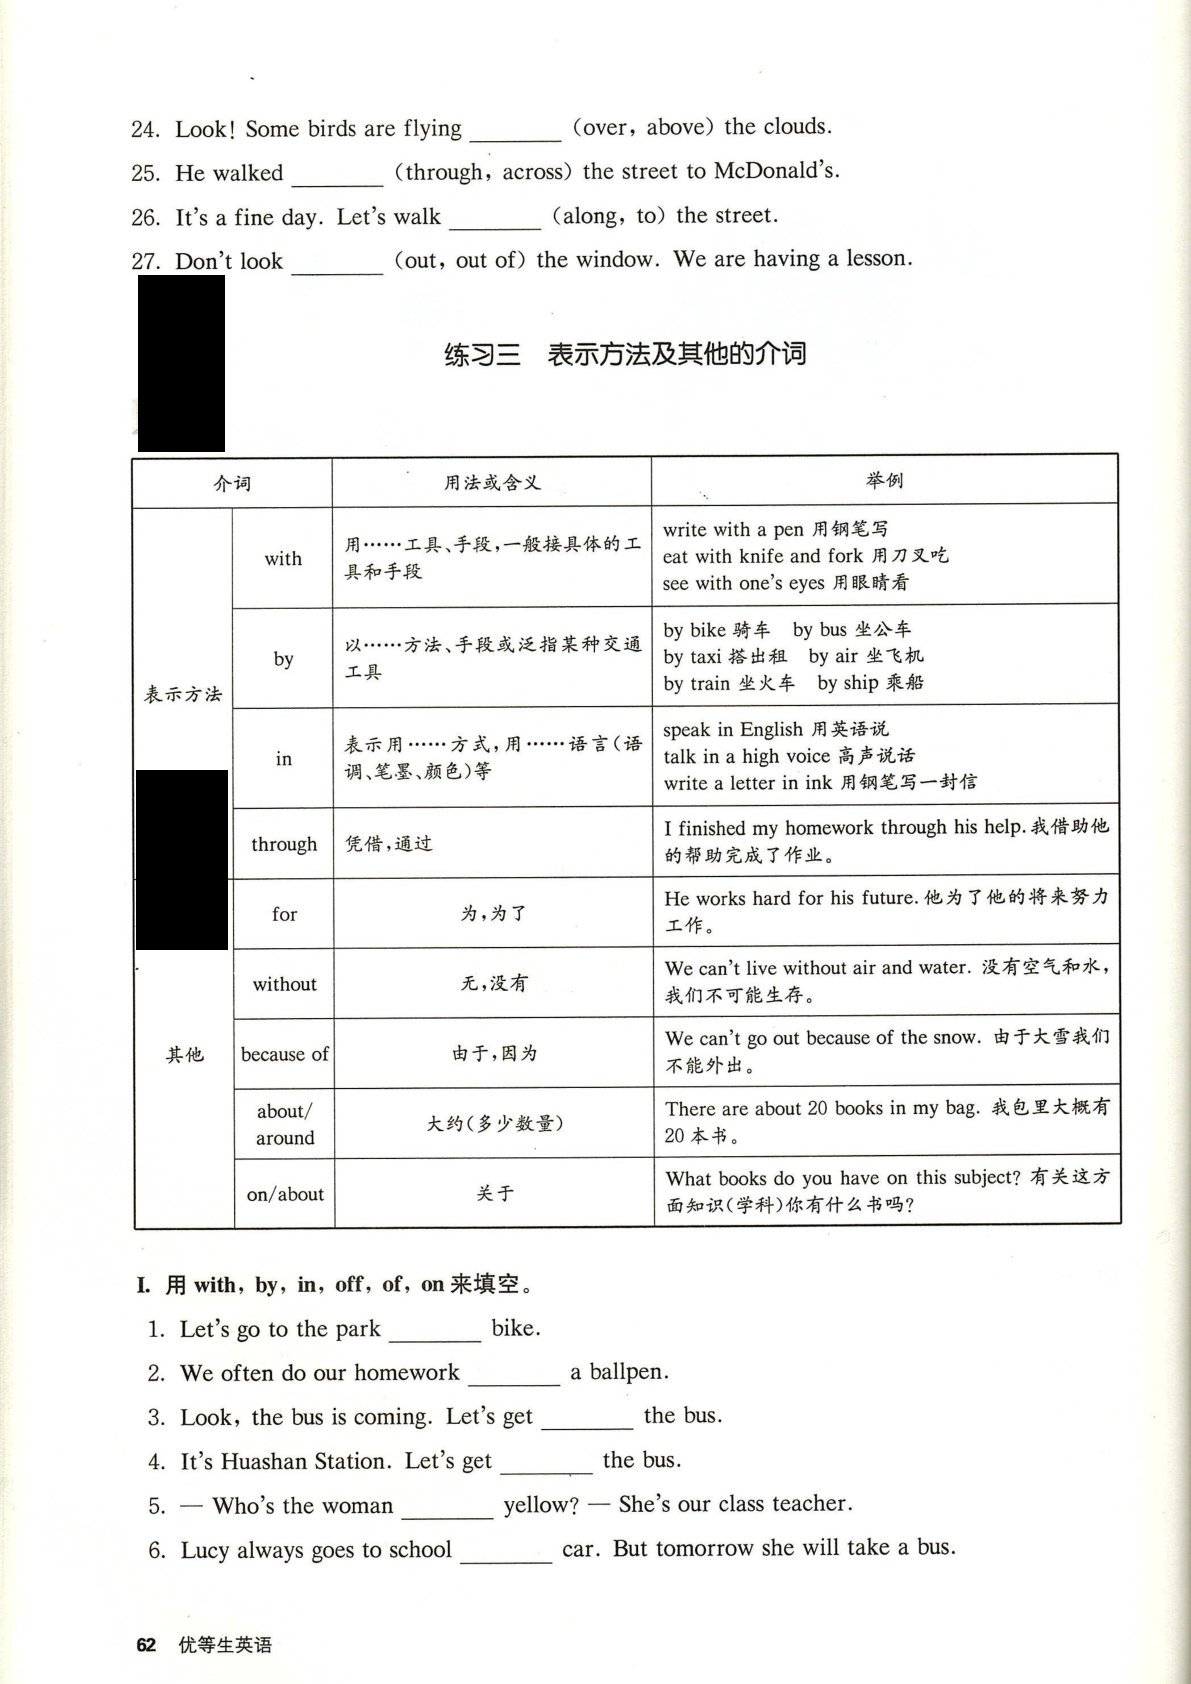
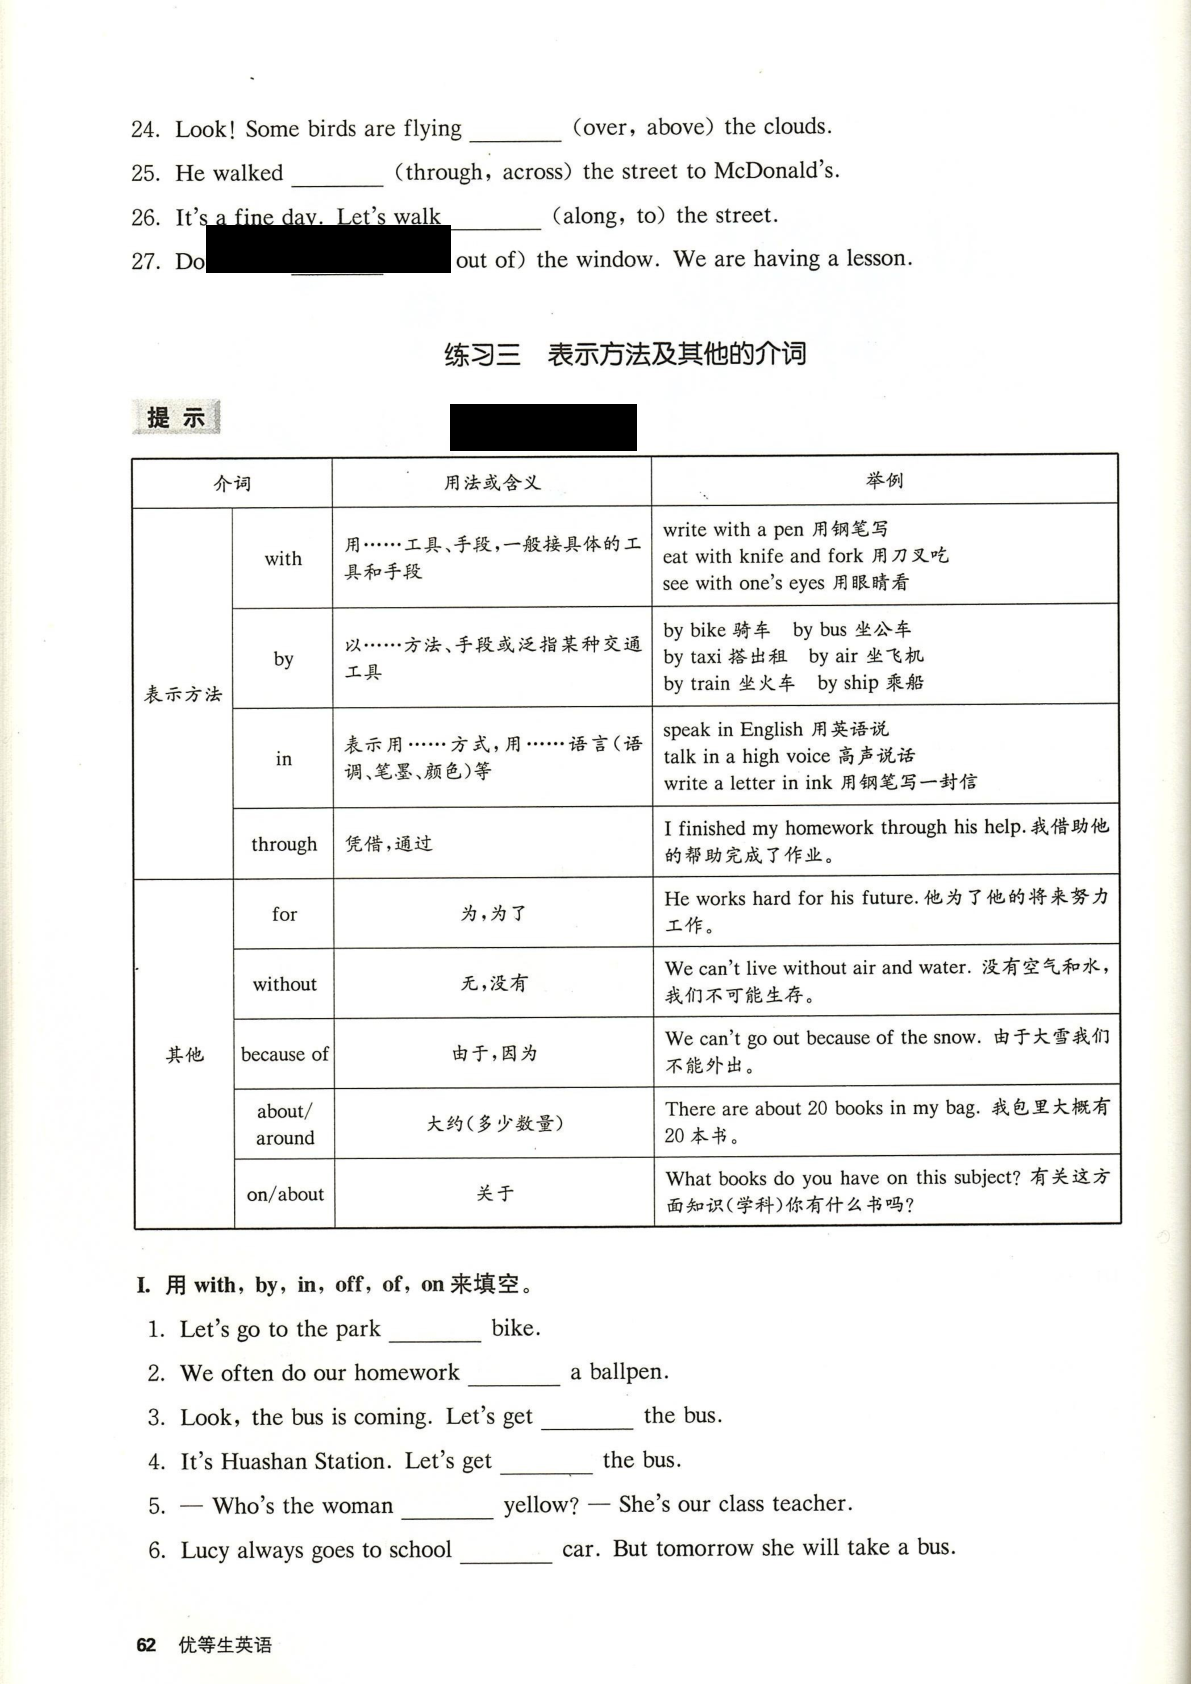
x,y => y,x

Changed region(s): [[0.0932, 0.1235, 0.4039, 0.2779], [0.0932, 0.4323, 0.2175, 0.5867], [0.3728, 0.2162, 0.5592, 0.2779]]

diff --git a/Py/Py/pdf_cover.py b/Py/Py/pdf_cover.py
@@ -52,7 +52,7 @@ def pdf_to_imgs(pdf_files):
 def cover_method(pdf_img, start_x, start_y, end_x, end_y, pdf_img_full_path):
     for x in range(int(start_x), int(end_x) + 1):
         for y in range(int(start_y), int(end_y) + 1):
-            pdf_img[x, y] = 0
+            pdf_img[y, x] = 0
     pdf_img = Image.fromarray(pdf_img.astype("uint8"))
     pdf_img.save(pdf_img_full_path)
 
